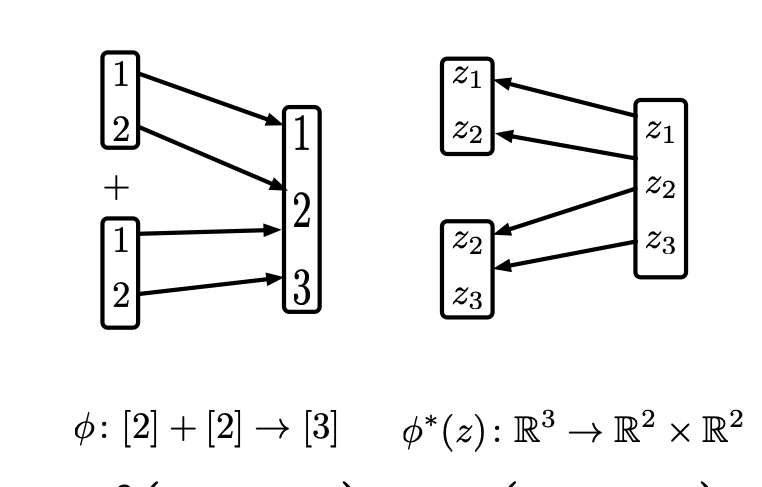
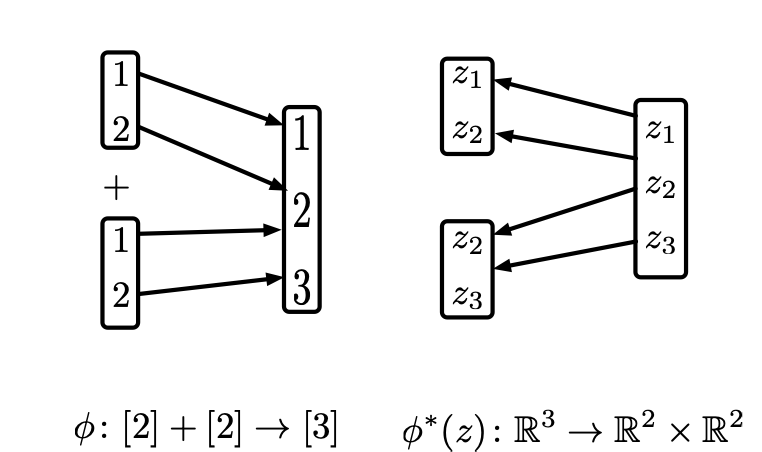
Update Compositional Methods deck with refined slide content
Re-exported from jpfairbanks/TenureTalk at ab8a899. Only index.html and
copy-sharing-maps.png differ.

Content: the title slide now plays the Robotarium clip, four takeaways moved
to speaker notes, slide 44 became "Conclusion" carrying one media element per
section, and several slides were reworked onto cards.

copy-sharing-maps.png was re-cropped: the original export had a half-cut row
of glyphs baked into the image, visible wherever it was shown.

Still self-contained: 88 asset references, all local, none remote.

diff --git a/2026-fall-compositional-methods/index.html b/2026-fall-compositional-methods/index.html
@@ -351,9 +351,9 @@
           </div>
           <div
             style="position:absolute;left:1094px;top:500px;width:394px;height:284px;overflow:hidden;border-radius:4px">
-            <img src="assets/figures/robosheaf-3-agent-1-target-frame.png"
-              alt="Three-agent one-target tracking demonstration, midpoint frame"
-              style="position:absolute;top:0;left:0;width:100%;height:100%;object-fit:cover">
+            <video data-autoplay src="assets/video/robotarium.mp4#t=22" autoplay="autoplay" loop="loop"
+              muted="muted" playsinline="playsinline" onloadedmetadata="this.currentTime=22"
+              style="position:absolute;top:0;left:0;width:100%;height:100%;object-fit:cover"></video>
           </div>
 
         </div>
@@ -396,7 +396,7 @@
             <img src="assets/photos/collaborators-6.jpg" alt="" style="width:100%;height:100%;object-fit:cover">
           </div>
 
-          <div class="ds-slide-num">3</div>
+          <div class="ds-slide-num" style="color:#fff;text-shadow:0 1px 4px rgb(0 0 0 / .6)">3</div>
         </div>
       </section>
 
@@ -531,9 +531,6 @@
             <div style="font-size:33px;line-height:1.22;text-wrap:pretty;color:#2C4B6A">
               Give the notation a formal semantics and the drawing becomes executable.
             </div>
-            <div style="margin-top:16px;font-size:24px;line-height:1.24;color:#2C4B6A;font-style:italic">
-              Figures from Fong and Spivak 2019
-            </div>
           </div>
           <div class="ds-slide-num">9</div>
 
@@ -572,11 +569,10 @@
             </div>
           </figure>
 
-          <div style="position:absolute;left:48px;right:48px;bottom:40px;font-size:34px;line-height:1.18;color:#2C4B6A">
-            Objectives, then dynamics, then the functor between them.</div>
           <div class="ds-slide-num">10</div>
 
         </div>
+        <aside class="notes">Objectives, then dynamics, then the functor between them.</aside>
       </section>
 
       <section data-label="11 · Composing Optimization Problems" data-slide-index="11" data-background-color="#ffffff"
@@ -595,12 +591,10 @@
           <img src="assets/figures/compose-objectives.png"
             alt="Contour plots of f on x1 and x2, g on x2 and x3, and their sum on the shared variable"
             style="position:absolute;left:48px;top:358px;width:1440px;height:335px;object-fit:contain">
-          <div style="position:absolute;left:48px;right:48px;bottom:64px;font-size:37px;line-height:1.18;color:#2C4B6A">
-            A subproblem does not change when it is plugged in. That is what makes ADMM and proximal gradient
-            distributed rather than merely parallel.</div>
           <div class="ds-slide-num">11</div>
 
         </div>
+        <aside class="notes">A subproblem does not change when it is plugged in. That is what makes ADMM and proximal gradient distributed rather than merely parallel.</aside>
       </section>
 
       <section data-label="12 · Composing Vector Fields" data-slide-index="12" data-background-color="#ffffff"
@@ -763,7 +757,7 @@
             style="position:absolute;left:48px;top:-8px;height:96px;margin:0;display:flex;align-items:center;white-space:nowrap;font-size:53px;font-weight:400;line-height:1;text-shadow:2px 2px 3px rgb(0 42 84 / .40)">
             Writing and Composing Decapodes in Julia</h1>
           <div
-            style="position:absolute;left:48px;top:120px;width:820px;height:600px;background:#F4F5F6;border-radius:4px;padding:28px;box-sizing:border-box;font-family:var(--font-mono);font-size:24px;line-height:1.42;color:#002A54;white-space:pre">Diffusion = <span style="color:#A85F19">@decapode</span> <span style="color:#002A54;font-weight:600">begin</span>
+            style="position:absolute;left:48px;top:120px;width:820px;height:600px;background:#F4F5F6;border-radius:4px;padding:28px;box-sizing:border-box;font-family:var(--font-mono);font-size:22px;line-height:1.42;color:#002A54;white-space:pre">Diffusion = <span style="color:#A85F19">@decapode</span> <span style="color:#002A54;font-weight:600">begin</span>
     (C, Ċ):<span style="color:#3F7A28">:Form0</span>
     ϕ:<span style="color:#3F7A28">:Form1</span>
 
@@ -915,14 +909,14 @@ f = <span style="color:#2C4B6A">sim</span>(mesh, generate)</div>
             <figcaption style="font-size:26px;line-height:1.24;color:#2C4B6A;font-style:italic">
               Speed and direction of the converged flow</figcaption>
           </figure>
-          <div
-            style="position:absolute;left:48px;right:112px;bottom:36px;display:flex;flex-direction:column;gap:10px">
-            <div style="font-size:36px;line-height:1.2;text-wrap:pretty">
-              The generated simulator lands on the benchmark points across both midlines, and recovers the primary vortex
-              with its corner recirculations.</div>
-            <div style="font-size:30px;line-height:1.2;color:#2C4B6A">
-              Quantitative agreement, from a specification with no hand-written discretization.</div>
-          </div>
+          <ul class="ds-bullet-list" style="position:absolute;left:48px;right:112px;bottom:36px;gap:10px">
+            <li class="size-body" style="font-size:32px"><span class="bullet-mark">●</span><span
+                class="bullet-text">The generated simulator lands on the benchmark points across both midlines, and
+                recovers the primary vortex with its corner recirculations</span></li>
+            <li class="size-body" style="font-size:32px"><span class="bullet-mark">●</span><span
+                class="bullet-text">Quantitative agreement, from a specification with no hand-written
+                discretization</span></li>
+          </ul>
           <div class="ds-slide-num">20</div>
 
         </div>
@@ -1009,7 +1003,7 @@ f = <span style="color:#2C4B6A">sim</span>(mesh, generate)</div>
             The fleet is a tree of <span style="font-family:var(--font-mono);font-size:0.85em">@include</span> calls:
             two wings, each built from the same reusable fragments, joined by a relay.</div>
           <div
-            style="position:absolute;left:48px;top:232px;width:700px;height:548px;background:#F4F5F6;border-radius:4px;padding:22px;box-sizing:border-box;overflow:hidden;font-family:var(--font-mono);font-size:22px;line-height:1.32;color:#002A54;white-space:pre">fleet = <span style="color:#A85F19">@nested_system</span> <span style="color:#002A54;font-weight:600">begin</span>
+            style="position:absolute;left:48px;top:232px;width:665px;height:548px;background:#F4F5F6;border-radius:4px;padding:22px;box-sizing:border-box;overflow:hidden;font-family:var(--font-mono);font-size:22px;line-height:1.32;color:#002A54;white-space:pre">fleet = <span style="color:#A85F19">@nested_system</span> <span style="color:#002A54;font-weight:600">begin</span>
   <span style="color:#A85F19">@system</span> wingA <span style="color:#002A54;font-weight:600">begin</span>
     <span style="color:#A85F19">@include</span> <span style="color:#2C4B6A">flight</span>(<span style="color:#3F7A28">:flight1</span>, elemsA, <span style="color:#3F7A28">:r1</span>)
     <span style="color:#A85F19">@include</span> <span style="color:#2C4B6A">escort</span>(<span style="color:#3F7A28">:charlie</span>, <span style="color:#8A6A3A">4</span>, <span style="color:#8A6A3A">0.6</span>, <span style="color:#3F7A28">:t3</span>)
@@ -1079,7 +1073,7 @@ f = <span style="color:#2C4B6A">sim</span>(mesh, generate)</div>
                 spaces across every agent</span></li>
             <li class="size-body" style=""><span class="bullet-mark">●</span><span class="bullet-text">A measurement
                 each pair of neighbors can compare directly</span></li>
-            <li class="size-body-sub" style="margin-left:48px;"><span class="bullet-mark">○</span><span
+            <li class="size-body" style=""><span class="bullet-mark">●</span><span
                 class="bullet-text">Two planar robots comparing positions in the same frame</span></li>
           </ul>
           <img src="assets/figures/ring-graph.png" alt="Sixteen agents arranged on a ring communication graph"
@@ -1113,12 +1107,13 @@ f = <span style="color:#2C4B6A">sim</span>(mesh, generate)</div>
                 records who talks to whom, and nothing about what they can compare</span></li>
           </ul>
           <figure
-            style="margin:0;position:absolute;left:788px;top:110px;width:700px;display:flex;flex-direction:column;align-items:center;gap:14px">
+            style="margin:0;position:absolute;left:788px;top:110px;width:700px;background:rgba(108,154,195,0.12);border-top:5px solid #002A54;border-radius:12px;padding:20px 24px;border-left:1px solid rgba(108,154,195,0.25);border-right:1px solid rgba(108,154,195,0.25);border-bottom:1px solid rgba(108,154,195,0.25);box-shadow:0 3px 10px rgba(0,42,84,0.04);box-sizing:border-box">
+            <figcaption style="font-size:26px;line-height:1.26;color:#002A54;margin-bottom:16px">
+              Drones, surface vessels and submarines share a mission but not a state space. Measurements must be
+              translated to be compared.</figcaption>
             <img src="assets/figures/vehicles-v2.svg"
               alt="Drones in the air, surface vessels on the water and submarines below, linked across all three layers"
-              style="width:100%;height:560px;object-fit:contain">
-            <figcaption style="font-size:26px;line-height:1.24;color:#2C4B6A;text-align:center;font-style:italic">
-              Drones, surface vessels and submarines share a mission but not a state space. Measurements must be translated to be compared.</figcaption>
+              style="width:100%;height:500px;object-fit:contain;display:block">
           </figure>
           <div class="ds-slide-num">26</div>
 
@@ -1148,11 +1143,9 @@ f = <span style="color:#2C4B6A">sim</span>(mesh, generate)</div>
 
           <figure
             style="margin:0;position:absolute;left:100px;right:100px;top:372px;bottom:36px;display:flex;align-items:center;justify-content:center">
-            <div style="width:100%;height:100%;background:rgba(108,154,195,0.06);border:1px solid rgba(108,154,195,0.25);border-radius:12px;padding:16px 28px;box-sizing:border-box;display:flex;align-items:center;justify-content:center">
-              <img src="assets/figures/sheaf-over-graph-planes.svg"
-                alt="Vector-space stalks drawn as planes standing over the vertices and edges of a base graph, connected by restriction maps"
-                style="width:100%;height:100%;object-fit:contain">
-            </div>
+            <img src="assets/figures/sheaf-over-graph-planes.svg"
+              alt="Vector-space stalks drawn as planes standing over the vertices and edges of a base graph, connected by restriction maps"
+              style="width:100%;height:100%;object-fit:contain">
           </figure>
 
           <div class="ds-slide-num">27</div>
@@ -1361,20 +1354,20 @@ f = <span style="color:#2C4B6A">sim</span>(mesh, generate)</div>
             style="position:absolute;left:48px;top:-8px;height:96px;margin:0;display:flex;align-items:center;white-space:nowrap;font-size:53px;font-weight:400;line-height:1;text-shadow:2px 2px 3px rgb(0 42 84 / .40)">
             Coordination Sheaves</h1>
 
-          <div style="position:absolute;left:48px;top:115px;width:560px;display:flex;flex-direction:column;gap:18px">
+          <div style="position:absolute;left:48px;right:48px;top:104px;font-size:34px;line-height:1.2;color:#2C4B6A;text-wrap:pretty">
+            A coordination sheaf provides a precise dictionary between geometry and control objectives.</div>
+
+          <div style="position:absolute;left:48px;top:172px;width:560px;display:flex;flex-direction:column;gap:18px">
             <div style="background:rgba(108,154,195,0.12);border-top:5px solid #002A54;border-radius:12px;padding:18px 22px;border-left:1px solid rgba(108,154,195,0.25);border-right:1px solid rgba(108,154,195,0.25);border-bottom:1px solid rgba(108,154,195,0.25);box-shadow:0 3px 10px rgba(0,42,84,0.04)">
               <div class="ds-theorem-block" style="font-size:27px;line-height:1.28">
                 <span class="theorem-head">Definition (Coordination Sheaf).</span>
                 <span class="theorem-body">A <strong>coordination sheaf</strong> on a graph <span class="katex-inline" data-tex="G=(V,E)">\(G=(V,E)\)</span> is a cellular sheaf <span class="katex-inline" data-tex="\mathcal{F}">\(\mathcal{F}\)</span> over <span class="katex-inline" data-tex="G">\(G\)</span> together with differentiable potential functions <span class="katex-inline" data-tex="U_{ij}\colon \mathcal{F}(ij)\to \mathbb{R}">\(U_{ij}\colon \mathcal{F}(ij)\to \mathbb{R}\)</span> for each edge <span class="katex-inline" data-tex="ij \in E">\(ij \in E\)</span>.</span>
               </div>
             </div>
-            <div style="font-size:28px;line-height:1.24;color:#2C4B6A">
-              Translates multi-agent systems (MAS) concepts directly into the algebraic language of cellular sheaves.
-            </div>
           </div>
 
           <div
-            style="position:absolute;left:648px;top:115px;width:840px;display:flex;flex-direction:column;align-items:center">
+            style="position:absolute;left:648px;top:172px;width:840px;display:flex;flex-direction:column;align-items:center">
             <div style="font-size:27px;font-weight:700;color:#2C4B6A;font-style:italic;margin-bottom:14px;text-align:center">
               MAS Interpretations for Coordination Sheaves
             </div>
@@ -1414,11 +1407,11 @@ f = <span style="color:#2C4B6A">sim</span>(mesh, generate)</div>
             </table>
           </div>
 
-          <div style="position:absolute;left:48px;right:48px;bottom:56px;font-size:37px;line-height:1.18;color:#2C4B6A">
-            A coordination sheaf provides a precise dictionary between geometry and control objectives.</div>
+          
           <div class="ds-slide-num">31</div>
 
         </div>
+        <aside class="notes">Translates multi-agent systems (MAS) concepts directly into the algebraic language of cellular sheaves.</aside>
       </section>
 
       <section data-label="32 · Beyond Consensus: Edge Potentials" data-slide-index="32" data-background-color="#ffffff"
@@ -1605,44 +1598,25 @@ f = <span style="color:#2C4B6A">sim</span>(mesh, generate)</div>
           <h1
             style="position:absolute;left:48px;top:-8px;height:96px;margin:0;display:flex;align-items:center;white-space:nowrap;font-size:53px;font-weight:400;line-height:1;text-shadow:2px 2px 3px rgb(0 42 84 / .40)">
             Sheaf-Laplacian Feedback and Its Guarantee</h1>
-          <div style="position:absolute;left:48px;top:115px;width:730px;display:flex;flex-direction:column;gap:12px">
-            <div style="font-size:25px;color:#2C4B6A;font-weight:700;letter-spacing:1px">Local Sheaf Disagreement</div>
-            <div class="ds-math-block" style="margin:2px 0"
-              data-tex="\eta_i = \sum_{j \in \mathcal{N}_i} \mathcal{F}_{i \unlhd ij}^{\top}\big( \mathcal{F}_{i \unlhd ij} q_i - \mathcal{F}_{j \unlhd ij} x_j \big)">
-              \[ \eta_i = \sum_{j \in \mathcal{N}_i} \mathcal{F}_{i \unlhd ij}^{\top}\big( \mathcal{F}_{i \unlhd ij} q_i
-              - \mathcal{F}_{j \unlhd ij} x_j \big) \]</div>
-            <div style="font-size:25px;color:#2C4B6A;font-weight:700;letter-spacing:1px;margin-top:4px">Decentralized Controller</div>
-            <div class="ds-math-block" style="margin:2px 0" data-tex="u_i = -k_1\, g_i^{+} \eta_i">\[ u_i = -k_1\,
-              g_i^{+} \eta_i \]</div>
-            <div style="font-size:27px;line-height:1.26;color:#002A54">
-              where <span class="katex-inline" data-tex="k_1 > 0">\( k_1 > 0 \)</span> is the control gain and <span
-                class="katex-inline" data-tex="g_i^+">\( g_i^+ \)</span> maps the correction into the control space.
+          <div style="position:absolute;left:48px;right:48px;top:168px;display:flex;flex-direction:column;gap:30px">
+
+            <div style="background:rgba(108,154,195,0.12);border-top:5px solid #002A54;border-radius:12px;padding:18px 24px;border-left:1px solid rgba(108,154,195,0.25);border-right:1px solid rgba(108,154,195,0.25);border-bottom:1px solid rgba(108,154,195,0.25);box-shadow:0 3px 10px rgba(0,42,84,0.04)">
+              <div style="font-size:27px;color:#002A54;font-weight:700;letter-spacing:1px;margin-bottom:6px">Local Sheaf Disagreement</div>
+              <div class="ds-math-block" style="font-size:34px;margin:0"
+                data-tex="\eta_i = \sum_{j \in \mathcal{N}_i} \mathcal{F}_{i \unlhd ij}^{\top}\big( \mathcal{F}_{i \unlhd ij} q_i - \mathcal{F}_{j \unlhd ij} x_j \big)">
+                \[ \eta_i = \sum_{j \in \mathcal{N}_i} \mathcal{F}_{i \unlhd ij}^{\top}\big( \mathcal{F}_{i \unlhd ij} q_i - \mathcal{F}_{j \unlhd ij} x_j \big) \]</div>
             </div>
-            <div style="font-size:27px;line-height:1.26;color:#2C4B6A">
-              Each agent evaluates <span class="katex-inline" data-tex="u_i">\( u_i \)</span> solely from neighbor
-              measurements.
+
+            <div style="background:rgba(108,154,195,0.12);border-top:5px solid #2E7D32;border-radius:12px;padding:18px 24px;border-left:1px solid rgba(108,154,195,0.25);border-right:1px solid rgba(108,154,195,0.25);border-bottom:1px solid rgba(108,154,195,0.25);box-shadow:0 3px 10px rgba(0,42,84,0.04)">
+              <div style="font-size:27px;color:#2E7D32;font-weight:700;letter-spacing:1px;margin-bottom:6px">Decentralized Controller</div>
+              <div class="ds-math-block" style="font-size:34px;margin:0" data-tex="u_i = -k_1\, g_i^{+} \eta_i">\[ u_i = -k_1\, g_i^{+} \eta_i \]</div>
             </div>
+
           </div>
-          <div style="position:absolute;left:810px;top:115px;width:678px;display:flex;flex-direction:column;gap:18px">
-            <div style="background:rgba(128,190,99,0.12);border-top:5px solid #80BE63;border-radius:12px;padding:18px 22px;border-left:1px solid rgba(128,190,99,0.25);border-right:1px solid rgba(128,190,99,0.25);border-bottom:1px solid rgba(128,190,99,0.25);box-shadow:0 3px 10px rgba(0,42,84,0.04)">
-              <div class="ds-theorem-block" style="font-size:27px;line-height:1.28"><span class="theorem-head">Theorem
-                  (Semi-global exponential
-                  convergence).</span> <span class="theorem-body">Under the standing assumptions, the tracking error
-                  relative to the harmonic extension converges semi-globally uniformly exponentially to a bounded residual
-                  set. A larger gain <span class="katex-inline" data-tex="k_1">\( k_1 \)</span> shrinks the residual error
-                  arbitrarily.</span></div>
-            </div>
-            <div
-              style="font-size:27px;line-height:1.28;color:#002A54;padding:16px 20px;background:rgba(108,154,195,0.10);border-radius:12px;border-top:5px solid #2C4B6A;border-left:1px solid rgba(108,154,195,0.2);border-right:1px solid rgba(108,154,195,0.2);border-bottom:1px solid rgba(108,154,195,0.2);box-shadow:0 3px 10px rgba(0,42,84,0.04)">
-              Residual errors arise solely from dynamics mismatches and bounded disturbances, exactly matching classical
-              singular perturbation bounds.
-            </div>
-          </div>
-          <div style="position:absolute;left:48px;right:48px;bottom:56px;font-size:37px;line-height:1.18;color:#2C4B6A">
-            The ordinary Lyapunov argument for Laplacian feedback, run in the sheaf’s coordinates.</div>
           <div class="ds-slide-num">35</div>
 
         </div>
+        <aside class="notes">k1 &gt; 0 is the control gain; g_i^+ maps the correction into the control space. Each agent evaluates u_i solely from neighbour measurements. Theorem (semi-global exponential convergence): under the standing assumptions the tracking error relative to the harmonic extension converges semi-globally uniformly exponentially to a bounded residual set, and a larger gain k1 shrinks that residual arbitrarily. Residual errors arise solely from dynamics mismatches and bounded disturbances, exactly matching classical singular perturbation bounds. This is the ordinary Lyapunov argument for Laplacian feedback, run in the sheaf&#39;s coordinates.</aside>
       </section>
 
       <section data-label="36 · Who Can Track Whom Is a Cohomological Question" data-slide-index="36"
@@ -1873,9 +1847,6 @@ f = <span style="color:#2C4B6A">sim</span>(mesh, generate)</div>
             style="position:absolute;left:48px;top:540px;width:700px;font-size:34px;line-height:1.22;text-wrap:pretty">
             Surface vehicles track their targets through a projection they can measure; the restriction maps carry the
             dimension change.</div>
-          <div style="position:absolute;left:48px;right:48px;bottom:64px;font-size:32px;line-height:1.2;color:#2C4B6A">
-            Heterogeneous multi-agent multi-target tracking using cellular sheaves — Hanks, Nino, Bou Barcelo, Copeland,
-            Dixon, Fairbanks. European Control Conference.</div>
           <div class="ds-slide-num">38</div>
 
         </div>
@@ -2049,7 +2020,7 @@ f = <span style="color:#2C4B6A">sim</span>(mesh, generate)</div>
             style="position:absolute;left:48px;top:130px;width:700px;font-size:43px;line-height:1.2;text-wrap:pretty">
             Next: the same sheaf and the same feedback law on physical differential-drive robots, using the Robotarium
             at Georgia Tech.</div>
-          <ul class="ds-bullet-list" style="position:absolute;left:48px;top:390px;width:700px">
+          <ul class="ds-bullet-list" style="position:absolute;left:48px;top:348px;width:700px">
             <li class="size-body" style=""><span class="bullet-mark">●</span><span class="bullet-text">Eight-agent wheel
                 and star sheaves under wind drift</span></li>
             <li class="size-body" style=""><span class="bullet-mark">●</span><span class="bullet-text">Mixed drone and
@@ -2072,13 +2043,13 @@ f = <span style="color:#2C4B6A">sim</span>(mesh, generate)</div>
         </div>
       </section>
 
-      <section data-label="44 · What This Talk Argued" data-slide-index="44" data-background-color="#ffffff"
+      <section data-label="44 · Conclusion" data-slide-index="44" data-background-color="#ffffff"
         style="background:#fff;overflow:hidden;color:#002A54;font-family:var(--font-core)">
         <div class="slide-canvas">
 
           <h1
             style="position:absolute;left:48px;top:-8px;height:96px;margin:0;display:flex;align-items:center;white-space:nowrap;font-size:59px;font-weight:400;line-height:1;text-shadow:2px 2px 3px rgb(0 42 84 / .40)">
-            What This Talk Argued</h1>
+            Conclusion</h1>
 
           <div
             style="position:absolute;left:48px;top:114px;width:1440px;font-size:35px;line-height:1.22;text-wrap:pretty">
@@ -2086,34 +2057,25 @@ f = <span style="color:#2C4B6A">sim</span>(mesh, generate)</div>
 
           <div
             style="position:absolute;left:48px;top:186px;right:48px;display:grid;grid-template-columns:repeat(3,1fr);gap:32px">
-            <div class="ds-highlight-region tint-blue" style="height:470px">
-              <div class="ds-region-content"
-                style="padding:30px 26px;display:flex;flex-direction:column;gap:16px;box-sizing:border-box">
-                <div style="font-size:31px;font-weight:700;line-height:1.2;color:#002A54">Diagrams Denote Systems</div>
-                <div style="font-size:25px;line-height:1.34;color:#002A54">A wiring diagram is a formula. Optimization and dynamical semantics are two functors out of the same diagram, and Euler discretization commutes with composition, so modular verification is exact.</div>
+            <div class="ds-highlight-region tint-blue" style="height:556px;justify-content:flex-start;padding:20px 20px 22px">
+              <div style="font-size:29px;font-weight:700;line-height:1.2;color:#002A54;text-align:center;width:100%;margin-bottom:14px">Diagrams Denote Systems</div>
+              <div class="ds-region-content" style="align-items:center;justify-content:center">
+                <img src="assets/figures/copy-sharing-maps.png" alt="A map from two two-element sets onto three variables, and its pullback duplicating the shared coordinate" style="max-width:100%;max-height:100%;object-fit:contain">
               </div>
-              <div class="ds-region-label">Part One</div>
             </div>
-            <div class="ds-highlight-region tint-orange" style="height:470px">
-              <div class="ds-region-content"
-                style="padding:30px 26px;display:flex;flex-direction:column;gap:16px;box-sizing:border-box">
-                <div style="font-size:31px;font-weight:700;line-height:1.2;color:#002A54">Specifications Compile to Solvers</div>
-                <div style="font-size:25px;line-height:1.34;color:#002A54">Decapodes turns diagrammatic physics into simulators with no hand-written discretization &mdash; matched against Ghia at Re&nbsp;=&nbsp;1000, Kelvin&ndash;Helmholtz, Rayleigh&ndash;Taylor, and porous convection.</div>
+            <div class="ds-highlight-region tint-orange" style="height:556px;justify-content:flex-start;padding:20px 20px 22px">
+              <div style="font-size:29px;font-weight:700;line-height:1.2;color:#002A54;text-align:center;width:100%;margin-bottom:14px">Specifications Compile to Solvers</div>
+              <div class="ds-region-content" style="align-items:center;justify-content:center">
+                <video data-autoplay src="assets/video/rayleigh-taylor-3d.mp4" autoplay="autoplay" loop="loop" muted="muted" playsinline="playsinline" style="max-width:100%;max-height:100%;object-fit:contain;background:#fff"></video>
               </div>
-              <div class="ds-region-label">Part Two</div>
             </div>
-            <div class="ds-highlight-region tint-green" style="height:470px">
-              <div class="ds-region-content"
-                style="padding:30px 26px;display:flex;flex-direction:column;gap:16px;box-sizing:border-box">
-                <div style="font-size:31px;font-weight:700;line-height:1.2;color:#002A54">Sheaves Close the Loop</div>
-                <div style="font-size:25px;line-height:1.34;color:#002A54">Cellular sheaves carry Laplacian control to fleets that share no state space, with exponential tracking guarantees and a cohomological test for which agents can track which targets.</div>
+            <div class="ds-highlight-region tint-green" style="height:556px;justify-content:flex-start;padding:20px 20px 22px">
+              <div style="font-size:29px;font-weight:700;line-height:1.2;color:#002A54;text-align:center;width:100%;margin-bottom:14px">Sheaves Close the Loop</div>
+              <div class="ds-region-content" style="align-items:center;justify-content:center">
+                <img src="assets/figures/vehicles-v2.svg" alt="Drones in the air, surface vessels on the water and submarines below, linked across all three layers" style="max-width:100%;max-height:100%;object-fit:contain">
               </div>
-              <div class="ds-region-label">Part Three</div>
             </div>
           </div>
-
-          <div style="position:absolute;left:48px;right:48px;bottom:56px;font-size:35px;line-height:1.2;color:#2C4B6A;text-wrap:pretty">
-            One representation carries modeling, simulation, and control &mdash; and each result is a theorem about composition rather than a special case.</div>
           <div class="ds-slide-num">44</div>
 
         </div>
@@ -2178,7 +2140,7 @@ f = <span style="color:#2C4B6A">sim</span>(mesh, generate)</div>
             saddle-point flows, and Riemannian descent are others, all landing in the same target.</div>
           <img src="assets/figures/optimization-functor-hierarchy.png"
             alt="Functors from Euclidean saddle, Euclidean, Riemannian, and general optimization categories into their dynamical counterparts, all landing in a common category of distributed dynamical systems"
-            style="position:absolute;left:218px;top:240px;width:1100px;height:380px;object-fit:contain">
+            style="position:absolute;left:218px;top:262px;width:1100px;height:380px;object-fit:contain">
           <div
             style="position:absolute;left:48px;right:48px;bottom:56px;font-size:37px;line-height:1.2;text-wrap:pretty">
             Tyler Hanks built a distributed algorithm for Riemannian optimization on this structure, extending
